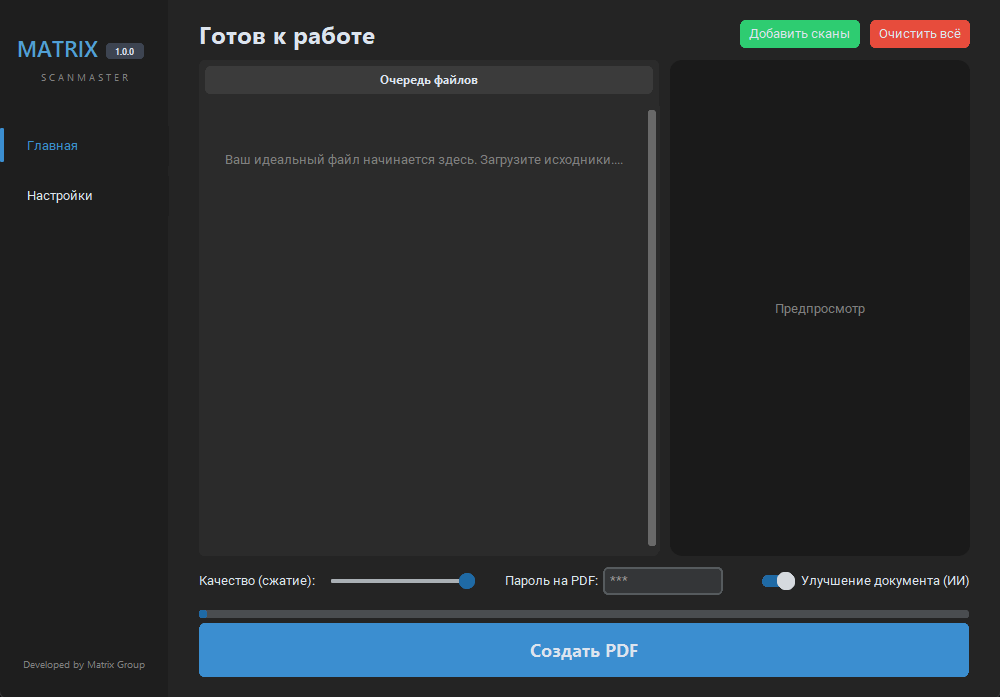
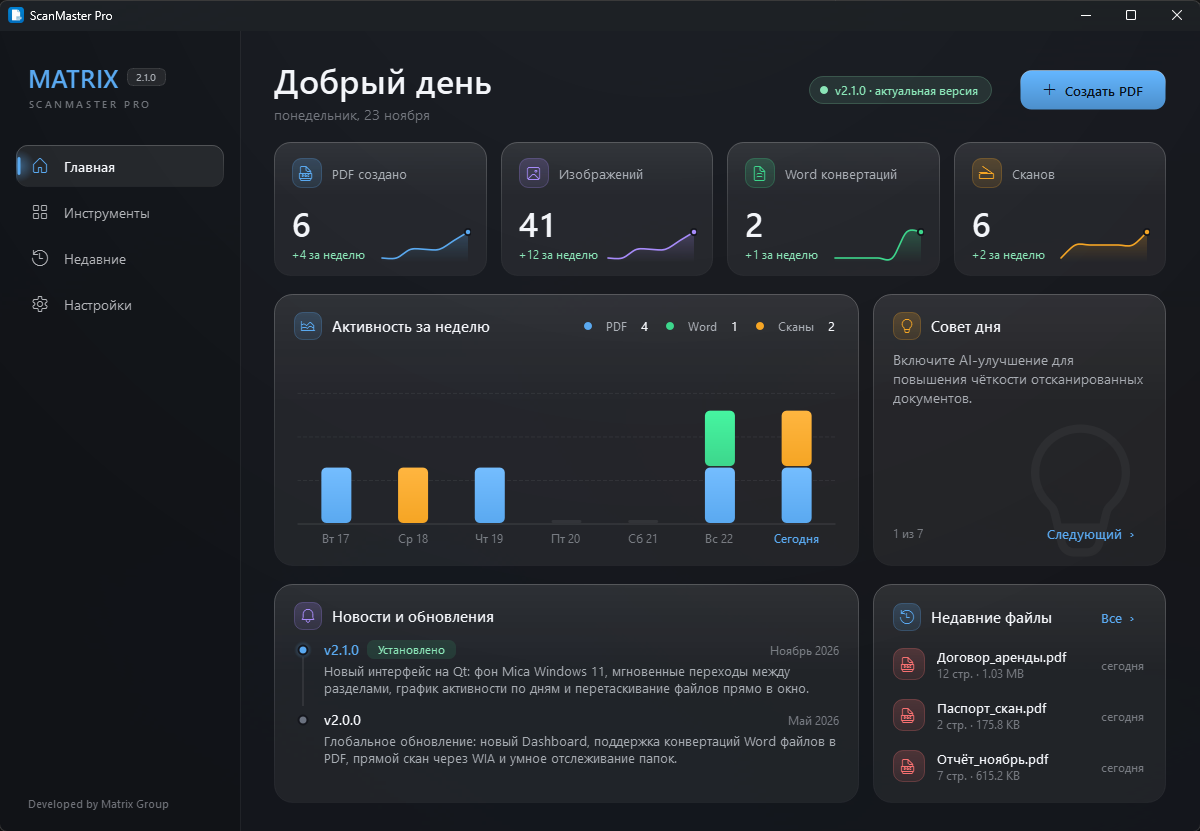
2026 - Обновление сайта и README под версию 2.1.0

diff --git a/index.html b/index.html
@@ -119,7 +119,8 @@
         .version-badge { color: var(--primary); font-weight: 700; font-size: 12px; border: 1px solid var(--primary); padding: 3px 10px; border-radius: 100px; display: inline-block; margin-bottom: 15px; }
         .product-info p { color: var(--text-dim); margin-bottom: 30px; font-size: 16px; }
 
-        .feature-list { display: grid; gap: 15px; margin-bottom: 35px; }
+        .feature-list { display: grid; grid-template-columns: 1fr 1fr; gap: 14px 22px; margin-bottom: 35px; }
+        @media (max-width: 600px) { .feature-list { grid-template-columns: 1fr; } }
         .feature-item { display: flex; align-items: center; gap: 12px; font-size: 15px; color: #cbd5e1; text-align: left; }
         .feature-item i { color: var(--primary); font-size: 16px; width: 20px; }
 
@@ -233,7 +234,7 @@
         <div class="nav-right" id="nav-right">
             <div class="nav-links">
                 <a href="#about" data-i18n="nav-about">О разработчике</a>
-                <a href="https://github.com/RaptorSoftware/ScanMaster-Pro/releases/download/v1.1.0/ScanMaster.Pro.zip" style="color: var(--primary);" data-i18n="nav-download">Скачать</a>
+                <a href="https://github.com/RaptorSoftware/ScanMaster-Pro/releases/latest/download/ScanMaster.Pro.exe" style="color: var(--primary);" data-i18n="nav-download">Скачать</a>
             </div>
             
             <div class="lang-switcher">
@@ -270,21 +271,24 @@
                 </div>
 
                 <div class="product-info">
-                    <span class="version-badge">v1.0.8 Stable</span>
+                    <span class="version-badge">v2.1.0 Stable</span>
                     <h2 data-i18n="prod-title">ScanMaster Pro</h2>
-                    <p data-i18n="prod-desc">Профессиональный комбайн для работы с PDF. Объединяйте, улучшайте и защищайте ваши сканы в один клик прямо на ПК.</p>
+                    <p data-i18n="prod-desc">Профессиональный комбайн для работы с PDF. Объединяйте, улучшайте и защищайте ваши сканы в один клик. Версия 2.1 — новый интерфейс в стиле Windows 11 и мгновенные переходы.</p>
                     
                     <div class="feature-list">
-                        <div class="feature-item"><i class="fas fa-magic"></i> <span data-i18n="feat-1">AI-улучшение</span></div>
-                        <div class="feature-item"><i class="fas fa-file-pdf"></i> <span data-i18n="feat-2">Конвертация без потерь</span></div>
-                        <div class="feature-item"><i class="fas fa-shield-alt"></i> <span data-i18n="feat-3">Локальная обработка</span></div>
+                        <div class="feature-item"><i class="fas fa-images"></i> <span data-i18n="feat-1">Изображения → PDF</span></div>
+                        <div class="feature-item"><i class="fas fa-file-word"></i> <span data-i18n="feat-2">Word → PDF</span></div>
+                        <div class="feature-item"><i class="fas fa-print"></i> <span data-i18n="feat-3">Сканер WIA и авто-папка</span></div>
+                        <div class="feature-item"><i class="fas fa-magic"></i> <span data-i18n="feat-4">AI-улучшение сканов</span></div>
+                        <div class="feature-item"><i class="fas fa-lock"></i> <span data-i18n="feat-5">Пароль на PDF</span></div>
+                        <div class="feature-item"><i class="fas fa-shield-alt"></i> <span data-i18n="feat-6">Локальная обработка</span></div>
                     </div>
 
-                    <a href="https://github.com/RaptorSoftware/ScanMaster-Pro/releases/download/v1.1.0/ScanMaster.Pro.zip" class="btn-main">
+                    <a href="https://github.com/RaptorSoftware/ScanMaster-Pro/releases/latest/download/ScanMaster.Pro.exe" class="btn-main">
                         <i class="fab fa-windows"></i>
                         <div style="text-align: left;">
                             <div style="font-size: 9px; opacity: 0.8; font-weight: 400;" data-i18n="btn-sub">Download for Windows</div>
-                            <div style="font-size: 16px;">ScanMaster_Pro.zip</div>
+                            <div style="font-size: 16px;">ScanMaster Pro.exe</div>
                         </div>
                     </a>
                 </div>
@@ -339,8 +343,9 @@
                 "nav-about": "О разработчике", "nav-download": "Скачать",
                 "hero-tag": "Innovative Software House", "hero-title": "Инженерия<br>Эффективности.",
                 "hero-desc": "Мы создаем мощные инструменты на базе Python для автоматизации ваших ежедневных задач с документами.",
-                "prod-title": "ScanMaster Pro", "prod-desc": "Профессиональный комбайн для работы с PDF. Объединяйте, улучшайте и защищайте ваши сканы в один клик.",
-                "feat-1": "AI-улучшение", "feat-2": "Конвертация без потерь", "feat-3": "Локальная обработка",
+                "prod-title": "ScanMaster Pro", "prod-desc": "Профессиональный комбайн для работы с PDF. Объединяйте, улучшайте и защищайте ваши сканы в один клик. Версия 2.1 — новый интерфейс в стиле Windows 11 и мгновенные переходы.",
+                "feat-1": "Изображения → PDF", "feat-2": "Word → PDF", "feat-3": "Сканер WIA и авто-папка",
+                "feat-4": "AI-улучшение сканов", "feat-5": "Пароль на PDF", "feat-6": "Локальная обработка",
                 "btn-sub": "Скачать для Windows", "about-title": "Matrix Group",
                 "about-desc": "Независимая студия разработки ПО. Мы создаем быстрые и безопасные приложения для Windows.",
                 "stat-1": "Основан", "stat-2": "Безопасно",
@@ -350,8 +355,9 @@
                 "nav-about": "Developer", "nav-download": "Download",
                 "hero-tag": "Innovative Software House", "hero-title": "Engineering<br>Efficiency.",
                 "hero-desc": "We create powerful Python-based tools to automate your daily document workflows.",
-                "prod-title": "ScanMaster Pro", "prod-desc": "Professional PDF workstation. Merge, enhance, and protect your scans with one click.",
-                "feat-1": "AI Enhancement", "feat-2": "Lossless Conversion", "feat-3": "Local Processing",
+                "prod-title": "ScanMaster Pro", "prod-desc": "Professional PDF workstation. Merge, enhance, and protect your scans with one click. Version 2.1 brings a Windows 11 style interface and instant navigation.",
+                "feat-1": "Images → PDF", "feat-2": "Word → PDF", "feat-3": "WIA scanner & watched folder",
+                "feat-4": "AI scan enhancement", "feat-5": "PDF password", "feat-6": "Local processing",
                 "btn-sub": "Download for Windows", "about-title": "Matrix Group",
                 "about-desc": "Independent software studio. We build fast and secure Windows applications.",
                 "stat-1": "Founded", "stat-2": "Secure",

diff --git a/README.md b/README.md
@@ -7,7 +7,8 @@
 </p>
 
 <p align="center">
-  <img src="https://img.shields.io/badge/Python-3.10+-blue?style=for-the-badge&logo=python&logoColor=white" alt="Python Version">
+  <img src="https://img.shields.io/badge/Python-3.11-blue?style=for-the-badge&logo=python&logoColor=white" alt="Python Version">
+  <img src="https://img.shields.io/badge/UI-PySide6%20(Qt)-41CD52?style=for-the-badge&logo=qt&logoColor=white" alt="PySide6">
   <img src="https://img.shields.io/badge/Platform-Windows-0078D4?style=for-the-badge&logo=windows&logoColor=white" alt="Platform">
   <img src="https://img.shields.io/badge/Status-Stable-success?style=for-the-badge" alt="Status">
 </p>
@@ -22,11 +23,19 @@
 
 ### ✨ Ключевые возможности:
 
-- **🪄 Интеллектуальное AI-улучшение:** Автоматическая коррекция яркости, контрастности и четкости отсканированных страниц.
-- **🔗 Бесшовное объединение:** Склеивайте десятки PDF-файлов в один структурированный документ мгновенно.
-- **🛡 Безопасность прежде всего:** Вся обработка происходит локально. Ваши данные не отправляются в облако.
-- **🔐 Продвинутое шифрование:** Установка паролей и прав доступа (AES-256) прямо при сохранении.
-- **⚡ Оптимизация размера:** Умное сжатие без видимой потери качества текста.
+- **🖼 Изображения → PDF:** Склеивайте сканы JPG, PNG, BMP и TIFF в один документ, меняйте порядок перетаскиванием, поворачивайте страницы, настраивайте сжатие.
+- **📝 Word → PDF:** Пакетная конвертация .docx через Microsoft Word или LibreOffice.
+- **🖨 Сканер:** Прямое сканирование через WIA и автодобавление файлов из папки, куда сохраняет принтер.
+- **🪄 AI-улучшение:** Коррекция контраста и резкости отсканированных страниц.
+- **🔐 Пароль на PDF:** Шифрование итогового документа прямо при сохранении.
+- **🛡 Локальная обработка:** Файлы не покидают ваш компьютер.
+
+### 🆕 Что нового в 2.1.0
+
+- Новый интерфейс на Qt в стиле Windows 11: фон Mica, стеклянные карточки, плавные анимации.
+- Мгновенные переходы между разделами и быстрая очередь даже на сотни страниц.
+- Главная с графиком активности по дням, трендами и недавними файлами.
+- Перетаскивание файлов прямо в окно — они сами попадают в нужную очередь.
 
 ---
 
@@ -35,7 +44,7 @@
 <p align="center">
   <img src="app_screen.png" width="80%" alt="Главный экран">
   <br>
-  <i>Главная панель управления инструментами</i>
+  <i>Главная: статистика, активность за неделю и недавние файлы</i>
 </p>
 
 ---
@@ -43,9 +52,9 @@
 ## 🛠 Технологический стек
 
 Проект построен на современных библиотеках Python:
-- **PySide6 / PyQt6** — для создания отзывчивого интерфейса.
-- **PyMuPDF / Pikepdf** — для высокоскоростной манипуляции PDF-структурами.
-- **OpenCV / Pillow** — для алгоритмов обработки изображений и AI-улучшения.
+- **PySide6 (Qt 6)** — интерфейс с фоном Mica Windows 11.
+- **Pillow, img2pdf, pikepdf** — обработка изображений, сборка и шифрование PDF.
+- **pywin32 (COM)** — Microsoft Word, WIA-сканер, ярлык и автозапуск.
 
 ---
 
